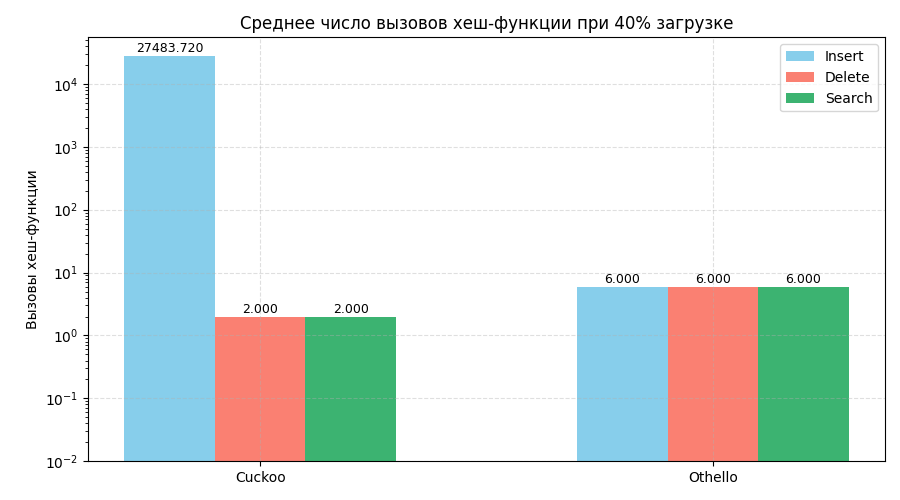
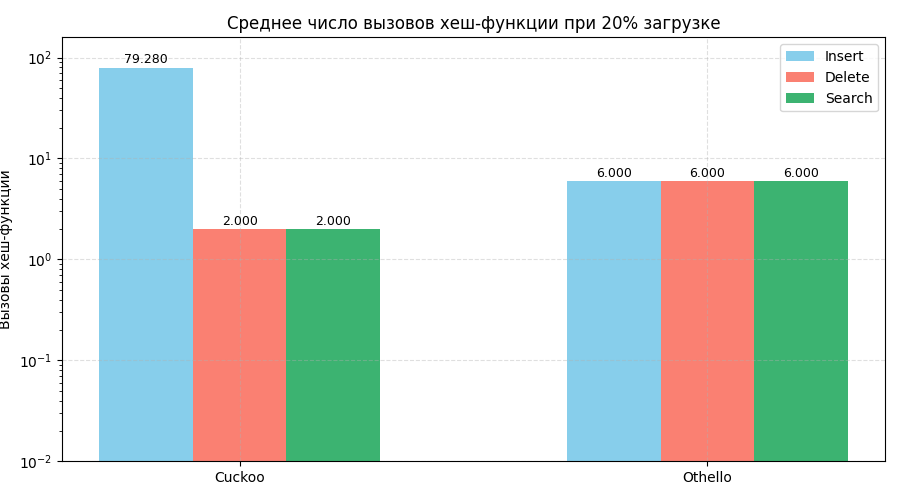
Проведены тесты на загрузке в 20% для набора из 1000 правил. Модифичирован график времени

diff --git a/my_code/common.py b/my_code/common.py
@@ -15,9 +15,6 @@ def test_info(avg_insert_mem, avg_delete_mem, avg_search_mem, avg_insert_hash, a
     print(f'AVG hash_cnt on delete = {avg_delete_hash}\n')
 
 
-    
-
-
 def get_data(filename):
     data = dict()
     with open(filename, "r") as f:
@@ -50,18 +47,19 @@ def draw():
     def clean_log_values(values, min_value=1e-6):
         return [v if v > 0 else min_value for v in values]
 
-
     def plot_comparison(title, y_label, keys, colors, filename, use_log_scale=False):
         plt.figure(figsize=(9, 5))
         for i, key in enumerate(keys):
             offset = (i - 1) * bar_width  # -0.2, 0, +0.2
             values = avg_data[key]
-            bars = plt.bar(x + offset, values, width=bar_width, label=key.split('_')[0].capitalize(), color=colors[i])
-            
+            bars = plt.bar(x + offset, values, width=bar_width,
+                           label=key.split('_')[0].capitalize(), color=colors[i])
+
             # Подписи сверху
             for bar in bars:
                 height = bar.get_height()
-                plt.text(bar.get_x() + bar.get_width()/2, height + height*0.03, f'{height:.3f}', ha='center', va='bottom', fontsize=9)
+                plt.text(bar.get_x() + bar.get_width()/2, height + height*0.03,
+                         f'{height:.6f}' if height < 0.001 else f'{height:.3f}', ha='center', va='bottom', fontsize=9)
 
         plt.xticks(x, labels)
         plt.ylabel(y_label)
@@ -74,7 +72,8 @@ def draw():
             plt.yscale('log')
             max_y = max(max(avg_data[k]) for k in keys)
             min_y = min(min(avg_data[k]) for k in keys)
-            plt.ylim(bottom=0.01, top=max_y * 2)  # увеличиваем "потолок" в 10 раз
+            # увеличиваем "потолок" в 10 раз
+            plt.ylim(bottom=0.01, top=max_y * 2)
         else:
             plt.ylim(0, max(max(avg_data[k]) for k in keys) * 1.25)
         plt.savefig(f'{filename}.png')
@@ -87,7 +86,7 @@ def draw():
 
     # 1. Обращения к памяти
     plot_comparison(
-        title='Среднее число обращений к памяти при 40% загрузке',
+        title='Среднее число обращений к памяти при 20% загрузке',
         y_label='Обращения к памяти',
         keys=['insert_mem', 'delete_mem', 'search_mem'],
         colors=['skyblue', 'salmon', 'mediumseagreen'],
@@ -97,7 +96,7 @@ def draw():
 
     # 2. Вызовы хеш-функций
     plot_comparison(
-        title='Среднее число вызовов хеш-функции при 40% загрузке',
+        title='Среднее число вызовов хеш-функции при 20% загрузке',
         y_label='Вызовы хеш-функции',
         keys=['insert_hash', 'delete_hash', 'search_hash'],
         colors=['skyblue', 'salmon', 'mediumseagreen'],
@@ -107,21 +106,22 @@ def draw():
 
     # 3. Время выполнения
     plot_comparison(
-        title='Среднее время выполнения операций при 40% загрузке',
+        title='Среднее время выполнения операций при 20% загрузке',
         y_label='Время (сек)',
         keys=['insert_time', 'delete_time', 'search_time'],
         colors=['skyblue', 'salmon', 'mediumseagreen'],
-        filename='./images/time',
-        use_log_scale=True
+        filename='./images/time'
     )
+
 
 def get_keys(json_dict):
     keys = []
     values = []
     for k, v in json_dict.items():
-       keys.append(k)
-       values.append(v)
+        keys.append(k)
+        values.append(v)
     return keys, values
+
 
 def generate_mac():
     """Генерирует случайный MAC-адрес."""
@@ -132,6 +132,7 @@ def generate_vlan():
     """Генерирует случайный VLAN ID (от 1 до 4095)."""
     return random.randint(1, 4095)
 
+
 def generate_kv():
     mac = generate_mac()
     vlan = generate_vlan()
@@ -141,14 +142,15 @@ def generate_kv():
 
 
 class Info():
-    def __init__(self, type='', records = 0, key_inc = False, memory = 0, hash = 0, failed = 0, contruct_cnt = 0):
+    def __init__(self, type='', records=0, key_inc=False, memory=0, hash=0, failed=0, contruct_cnt=0):
         self.type = type
         self.records = records
         self.key_inc = key_inc
         self.memory = memory   # число доступов к памяти
         self.hash = hash   # число вычислений хеш-функций
         self.failed = failed
-        self.contruct_cnt = contruct_cnt   # число перестроений структуры для операции insert в Отелло
+        # число перестроений структуры для операции insert в Отелло
+        self.contruct_cnt = contruct_cnt
 
 
 if __name__ == '__main__':

diff --git a/my_code/cuckoo.py b/my_code/cuckoo.py
@@ -56,7 +56,7 @@ class HashTab():
         pos = position1
         table = self.array1
 
-        cycle = False
+        '''cycle = False
         pos_1 = set()
         pos_2 = set()
 
@@ -85,12 +85,12 @@ class HashTab():
                 pos == position1                            # and check the 1st table position. 
                 table = self.array1
                 pos_1.add(pos)
-            info.hash += 2
+            info.hash += 2'''
 
 
 
         #       
-        '''for _ in range(self.size):
+        for _ in range(5):
             #print('Inserting...')
             
             if table[pos] == None:               # if the position in the current table is empty
@@ -111,7 +111,7 @@ class HashTab():
                 position1, position2 = self.hashFunc(n.key) # otherwise, hash the displaced node,
                 pos == position1                            # and check the 1st table position. 
                 table = self.array1
-            info.hash += 2'''
+            info.hash += 2
 
 
         # This line will never be executed due to infinite loop above
@@ -229,7 +229,7 @@ class HashTab():
 
 
 def test():
-    size = 570
+    load = 1000
     missing = 0
     found = 0 
 
@@ -238,11 +238,11 @@ def test():
 
     keys, values = get_keys(json_dict)
     # create a hash table with an initially small number of bukets
-    cuko = HashTab(2200)
+    cuko = HashTab(5000)
     inserted = 0
     find_after = 0
 
-    for i in range(size):
+    for i in range(load):
         if cuko.insert(keys[i], values[i]):
             inserted += 1
 
@@ -254,7 +254,8 @@ def test():
         else:
             print(f'ERROR with k-v pair: {keys[i]}---{values[i]}')
     
-    print(f'Correct is {find_after} of {size}')
+    print(f'Correct is {find_after} of {load}')
+    print(f'Final size is {cuko.size}')
 
 
     """Тестирование среднего числа обращений к памяти и вызовов хеш-функции на операции ВСТАВКИ"""
@@ -289,7 +290,7 @@ def test():
     search_hash_cnt = []
     search_time = []
     cnt = 0
-    for i in range(size):
+    for i in range(load):
         start_t = time.time()
         ans, info = cuko.find(keys[i])
         finish_t = time.time()
@@ -326,7 +327,7 @@ def test():
 
     test_info(avg_insert_mem, avg_delete_mem, avg_search_mem, avg_insert_hash, avg_delete_hash, avg_search_hash, avg_insert_time)
 
-    print(f'Correct is {cnt} of {size}')
+    print(f'Correct is {cnt} of {load}')
 
 
 def main():

diff --git a/my_code/ninety_test.py b/my_code/ninety_test.py
@@ -33,7 +33,7 @@ pg.construct(json_dict)
 max_load = pg.group[0].ma
 n = len(json_dict)
 print(f'max_load = {max_load}, current_load = {n}')
-load = 0.5
+load = 0.2
 # Добавляем недостающее число правил, чтобы загрузка каждой доли графа стала фиксированной
 for i in range(int((max_load * load - n))):
     new_k, new_v = generate_kv()

diff --git a/my_code/pog.py b/my_code/pog.py
@@ -47,8 +47,8 @@ class POG:
             n = len(table)
 
             # LOADFACTOR = +-40%
-            a = bitarray.bitarray(int(n * 2.2)) 
-            b = bitarray.bitarray(int(n * 2.2))
+            a = bitarray.bitarray(int(n * 5)) 
+            b = bitarray.bitarray(int(n * 5))
             ma = len(a)
             mb = len(b)
             ha = hashlib.sha3_512
